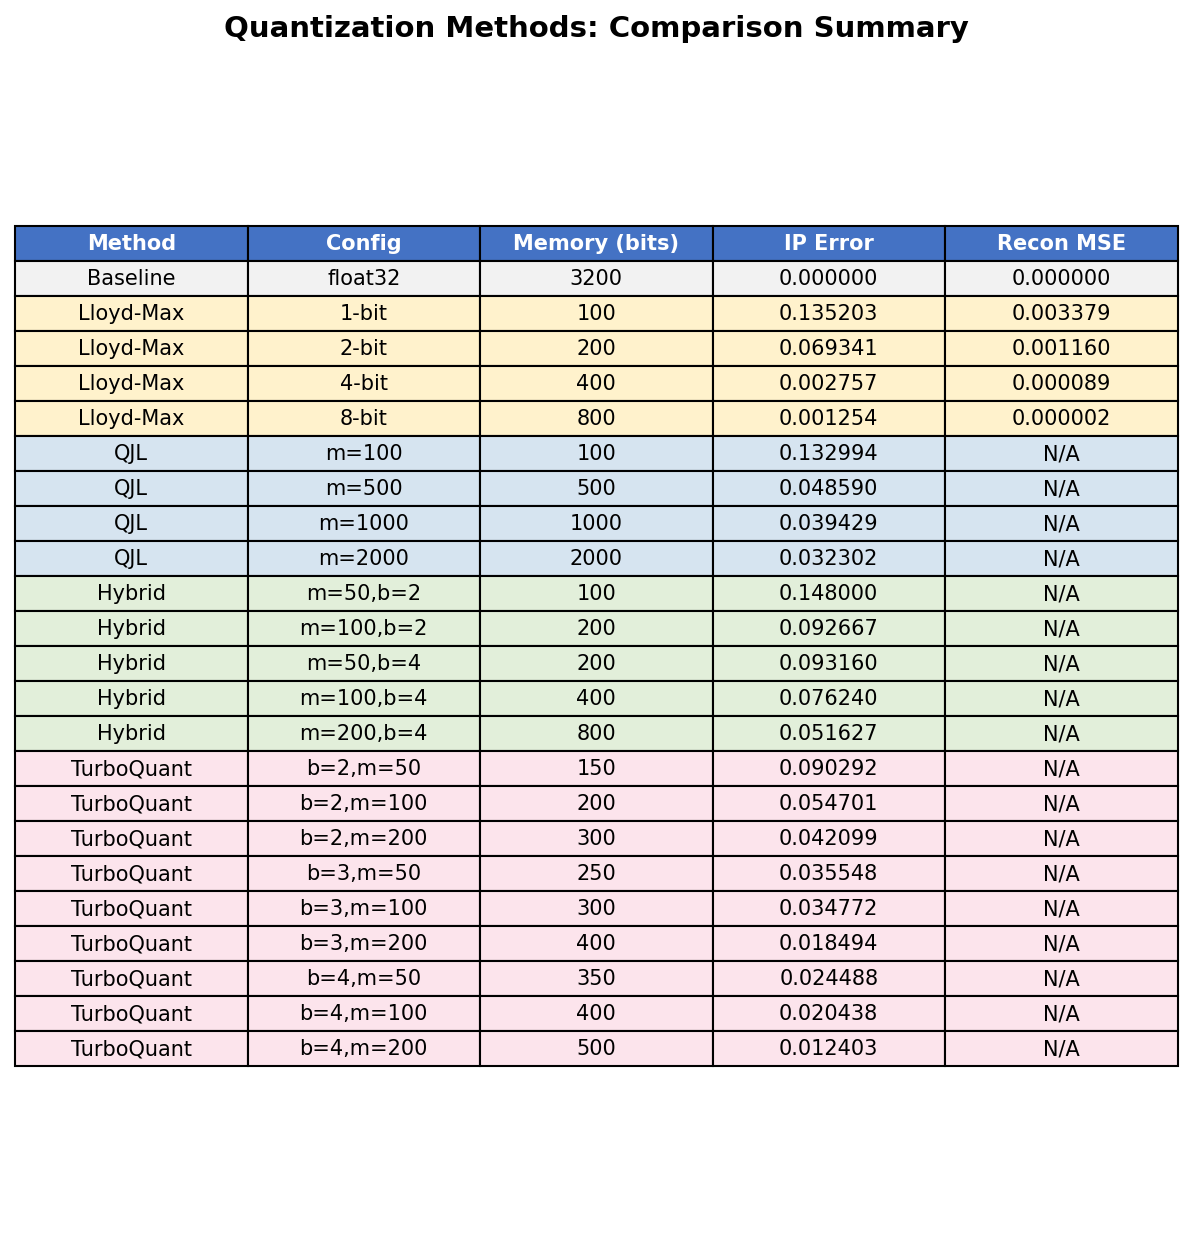
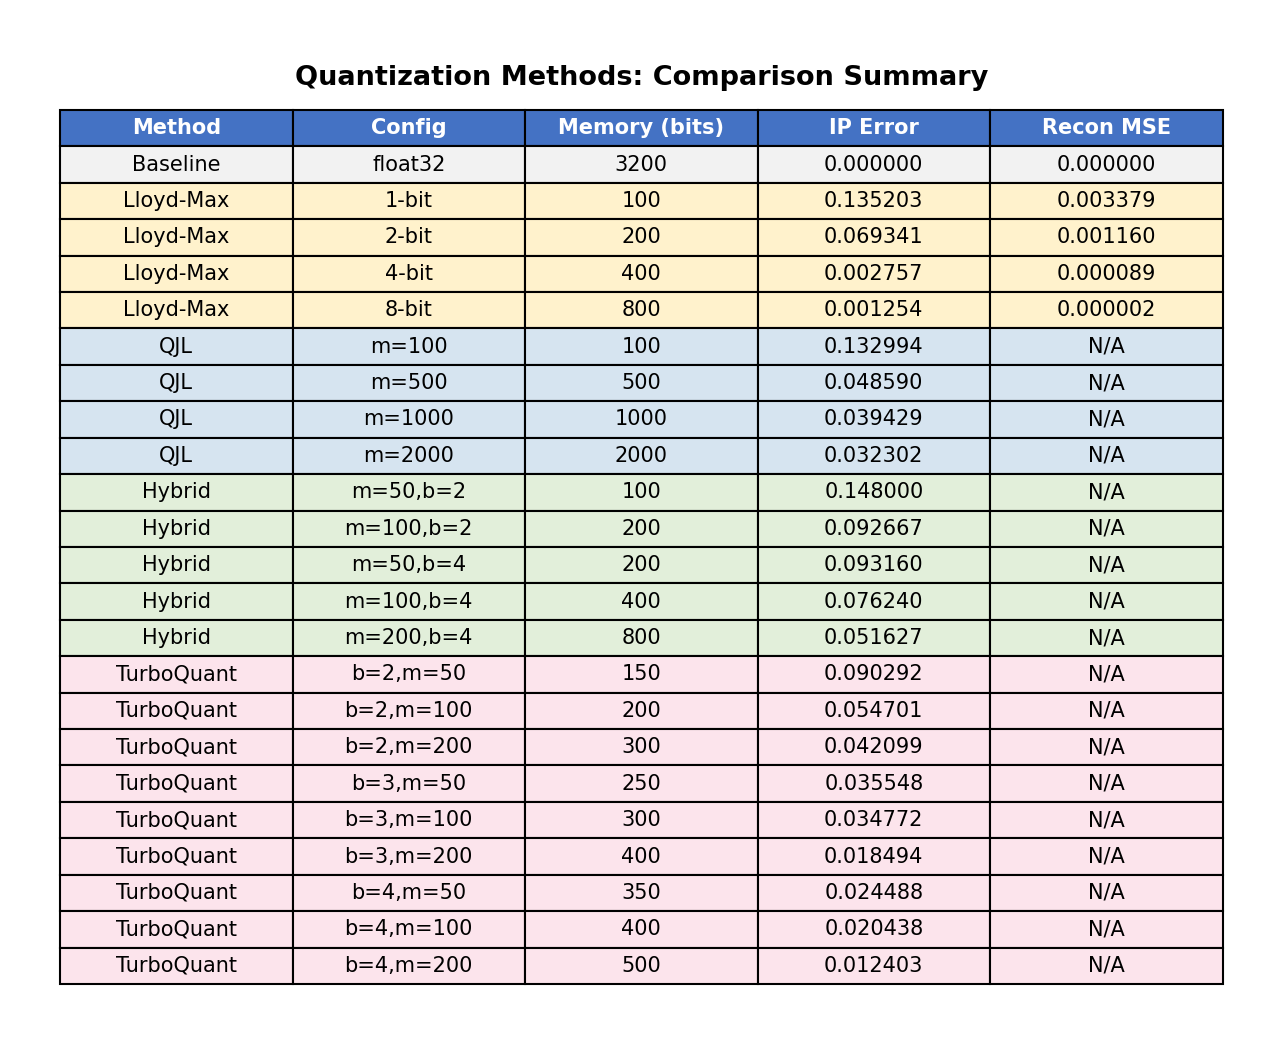
Improve summary table styling and fix wide matrix in README
- Add gap between title bar and table header to prevent overlap
- Increase left/right padding around summary table
- Split Sx calculation into two lines to avoid horizontal scroll on GitHub
- Add column descriptions and insights for summary table in README

diff --git a/src/visualization.py b/src/visualization.py
@@ -471,28 +471,45 @@ def plot_summary_table(results, save_path="outputs/figures/summary_table.png"):
     # テーブル描画
     col_labels = ["Method", "Config", "Memory (bits)", "IP Error", "Recon MSE"]
     n_rows = len(rows)
-    row_height = 0.4
-    fig_height = row_height * (n_rows + 1) + 0.6  # +1 for header, +0.6 for title
 
-    fig, ax = plt.subplots(figsize=(10, fig_height))
+    n_cols = len(col_labels)
+    # 行の高さの比率: タイトル行 + ヘッダ行 + データ行
+    total_rows = n_rows + 2  # +1 title, +1 header
+    row_h = 1.0 / total_rows
+
+    fig, ax = plt.subplots(figsize=(10, 0.32 * total_rows))
     ax.axis("off")
 
+    # タイトルバー（表の上に直結する矩形 + テキスト）
+    gap = row_h * 0.35  # タイトルと表の間の隙間
+    title_y = 1.0 - row_h
+    ax.add_patch(plt.Rectangle(
+        (0, title_y), 1.0, row_h,
+        transform=ax.transAxes, facecolor="white",
+        edgecolor="none", clip_on=False,
+    ))
+    ax.text(0.5, title_y + row_h / 2,
+            "Quantization Methods: Comparison Summary",
+            transform=ax.transAxes, ha="center", va="center",
+            fontsize=13, fontweight="bold", color="black")
+
+    # テーブル本体（タイトルバーの下に配置、gap 分だけ下げる）
     table = ax.table(
         cellText=rows,
         colLabels=col_labels,
         loc="center",
         cellLoc="center",
+        bbox=[0.0, 0.0, 1.0, title_y - gap],
     )
     table.auto_set_font_size(False)
     table.set_fontsize(10)
-    table.scale(1, 1.4)
 
     # ヘッダ行の色
-    for j in range(len(col_labels)):
+    for j in range(n_cols):
         table[0, j].set_facecolor("#4472C4")
         table[0, j].set_text_props(color="white", fontweight="bold")
 
-    # 行の色分け（手法ごと）
+    # データ行の色分け（手法ごと）
     method_colors = {
         "Baseline": "#F2F2F2",
         "Lloyd-Max": "#FFF2CC",
@@ -502,12 +519,10 @@ def plot_summary_table(results, save_path="outputs/figures/summary_table.png"):
     }
     for i, row in enumerate(rows):
         color = method_colors.get(row[0], "white")
-        for j in range(len(col_labels)):
+        for j in range(n_cols):
             table[i + 1, j].set_facecolor(color)
 
-    ax.set_title("Quantization Methods: Comparison Summary",
-                 fontsize=14, fontweight="bold", pad=10)
-    plt.savefig(save_path, dpi=150, bbox_inches="tight", pad_inches=0.1)
+    plt.savefig(save_path, dpi=150, bbox_inches="tight", pad_inches=0.4)
     plt.close()
     print(f"  Saved: {save_path}")
 

diff --git a/README.md b/README.md
@@ -81,9 +81,9 @@ $$S = \begin{pmatrix} -0.7 & -0.2 & +1.7 \\ +0.7 & -1.6 & +0.0 \\ -0.6 & +0.1 & 
 
 **Step 2**: 両ベクトルを射影 — Sx と Sy を計算
 
-$$Sx = \begin{pmatrix} (-0.7)(0.81) + (-0.2)(0.51) + (1.7)(0.30) \\ (0.7)(0.81) + (-1.6)(0.51) + (0.0)(0.30) \\ (-0.6)(0.81) + (0.1)(0.51) + (-1.6)(0.30) \\ (0.2)(0.81) + (0.2)(0.51) + (1.6)(0.30) \end{pmatrix} = \begin{pmatrix} -0.15 \\ -0.24 \\ -0.92 \\ +0.75 \end{pmatrix}$$
+$$Sx = \begin{pmatrix} (-0.7)(0.81) + (-0.2)(0.51) + (1.7)(0.30) \\ (0.7)(0.81) + (-1.6)(0.51) + (0.0)(0.30) \\ (-0.6)(0.81) + (0.1)(0.51) + (-1.6)(0.30) \\ (0.2)(0.81) + (0.2)(0.51) + (1.6)(0.30) \end{pmatrix}$$
 
-$$Sy = \begin{pmatrix} +0.69 \\ -0.94 \\ -1.10 \\ +1.20 \end{pmatrix}$$
+$$= \begin{pmatrix} -0.15 \\ -0.24 \\ -0.92 \\ +0.75 \end{pmatrix}, \quad Sy = \begin{pmatrix} +0.69 \\ -0.94 \\ -1.10 \\ +1.20 \end{pmatrix}$$
 
 **Step 3**: x の射影を **1ビットに量子化**（符号だけ残す）。y はそのまま保持。
 
@@ -155,6 +155,21 @@ $$c_i = E[X \mid b_{i-1} < X \leq b_i]$$
 ### サマリテーブル
 
 ![Summary Table](outputs/figures/summary_table.png)
+
+**各カラムの意味：**
+
+- **Method** — 量子化手法の名前
+- **Config** — 設定パラメータ（ビット数、射影数 `m`、またはその組み合わせ）
+- **Memory (bits)** — 1ベクトルを保存するのに必要なビット数
+- **IP Error** — 内積推定の誤差（真の内積との差の絶対値。小さいほど良い）
+- **Recon MSE** — 再構成誤差（元のベクトルとの平均二乗誤差。QJL 系は復元できないため N/A）
+
+**テーブルから読み取れること：**
+
+- **Lloyd-Max はビット数を増やすと急速に改善する** — 1-bit で IP Error 0.135 → 4-bit で 0.003 と約45倍改善。ただしメモリも 100 → 400 ビットに増える
+- **QJL は射影数で精度を制御できるが収束は緩やか** — m=100 で 0.133、m=2000 でも 0.032。その代わり再構成は不可能
+- **TurboQuant は同じメモリ予算で最も低い IP Error** — 例えば 400 ビットで比較すると、Lloyd-Max 4-bit は 0.003、Hybrid m=100,b=4 は 0.076、TurboQuant b=3,m=200 は 0.018。Lloyd-Max が最良だが、TurboQuant は再構成品質を維持しつつ不偏推定も実現している点が異なる
+- **Recon MSE は Lloyd-Max の独壇場** — QJL 系手法は内積推定に特化しており、元のベクトルを復元できない。用途に応じた使い分けが必要
 
 ### QJL の収束
 
